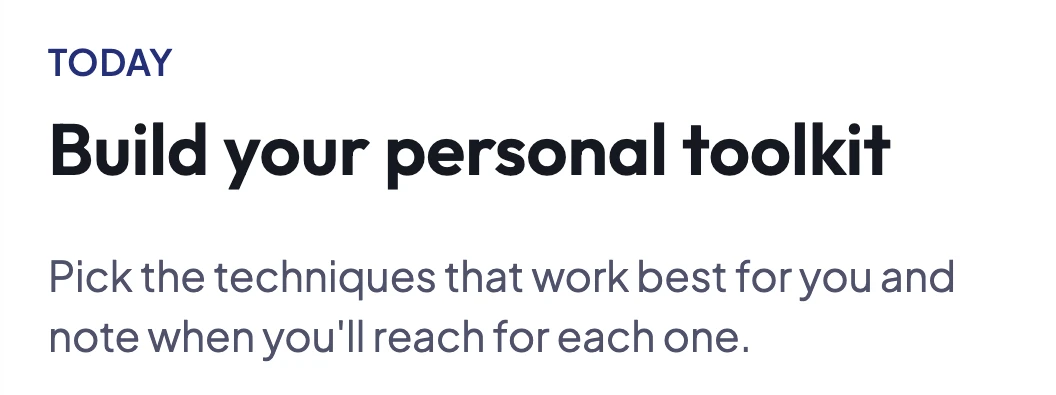
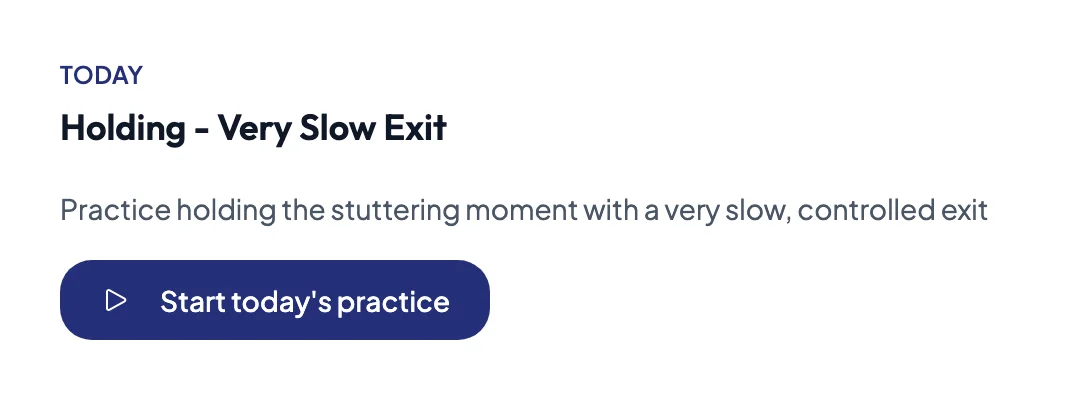
fix(patients): hero cards and phone show one exercise, Holding - Very Slow Exit, from real captures

Changed region(s): [[0.0312, 0.2734, 0.9375, 0.5772], [0.0312, 0.638, 0.9062, 0.9114], [0.0312, 0.1215, 0.1875, 0.2127]]

diff --git a/src/pages/ForPatients.tsx b/src/pages/ForPatients.tsx
@@ -27,13 +27,13 @@ const GALLERY = [
 const EXCHANGE = [
   {
     src: "/screenshots/detail/exchange-today.webp",
-    width: 1056,
-    height: 395,
+    width: 1080,
+    height: 400,
   },
   {
     src: "/screenshots/detail/exchange-reply.webp",
-    width: 984,
-    height: 500,
+    width: 1008,
+    height: 292,
   },
 ] as const;
 const RECORD_SHOT = "/screenshots/mobile/patient-record.webp";
@@ -189,8 +189,8 @@ export default function ForPatients() {
                 </div>
               </div>
 
-              <ol className="mx-auto grid w-full max-w-[520px] gap-6 sm:max-w-[600px] sm:grid-cols-[1fr,auto] sm:grid-rows-[auto,auto,1fr] sm:items-center sm:gap-x-0 lg:ml-auto">
-                <li className="relative z-20 sm:col-start-1 sm:row-start-1 sm:mr-6 sm:self-start">
+              <ol className="mx-auto grid w-full max-w-[520px] gap-6 sm:max-w-[640px] sm:grid-cols-[1fr,auto] sm:grid-rows-[auto,auto,1fr] sm:items-center sm:gap-x-0 lg:ml-auto">
+                <li className="relative z-20 sm:col-start-1 sm:row-start-1 sm:mr-4 sm:self-start">
                   <BeatLabel n={1}>{t.intro.exchange.todayLabel}</BeatLabel>
                   <img
                     src={localizedAsset(EXCHANGE[0].src, locale)}
@@ -206,10 +206,10 @@ export default function ForPatients() {
                   <PhoneShot
                     src={localizedAsset(RECORD_SHOT, locale)}
                     alt={t.intro.exchange.recordAlt}
-                    className="relative w-[190px] sm:w-[260px]"
+                    className="relative w-[190px] sm:w-[225px]"
                   />
                 </li>
-                <li className="relative z-20 sm:col-start-1 sm:row-start-2 sm:mr-6 sm:self-start">
+                <li className="relative z-20 sm:col-start-1 sm:row-start-2 sm:mr-4 sm:self-start">
                   <BeatLabel n={3}>{t.intro.exchange.replyLabel}</BeatLabel>
                   <img
                     src={localizedAsset(EXCHANGE[1].src, locale)}

diff --git a/src/i18n/localized-assets.generated.ts b/src/i18n/localized-assets.generated.ts
@@ -11,8 +11,6 @@ export const LOCALIZED_ASSETS: ReadonlySet<string> = new Set([
   "es|/screenshots/app/therapist-patient-progress.jpg",
   "es|/screenshots/app/therapist-report.png",
   "es|/screenshots/desktop.jpg",
-  "es|/screenshots/detail/exchange-reply.webp",
-  "es|/screenshots/detail/exchange-today.webp",
   "es|/screenshots/detail/plan-assigned.webp",
   "es|/screenshots/detail/report-ready.webp",
   "es|/screenshots/mobile/caregiver-today-crop.webp",
@@ -27,8 +25,6 @@ export const LOCALIZED_ASSETS: ReadonlySet<string> = new Set([
   "pt|/screenshots/app/therapist-patient-progress.jpg",
   "pt|/screenshots/app/therapist-report.png",
   "pt|/screenshots/desktop.jpg",
-  "pt|/screenshots/detail/exchange-reply.webp",
-  "pt|/screenshots/detail/exchange-today.webp",
   "pt|/screenshots/detail/plan-assigned.webp",
   "pt|/screenshots/detail/report-ready.webp",
   "pt|/screenshots/mobile/caregiver-today-crop.webp",
